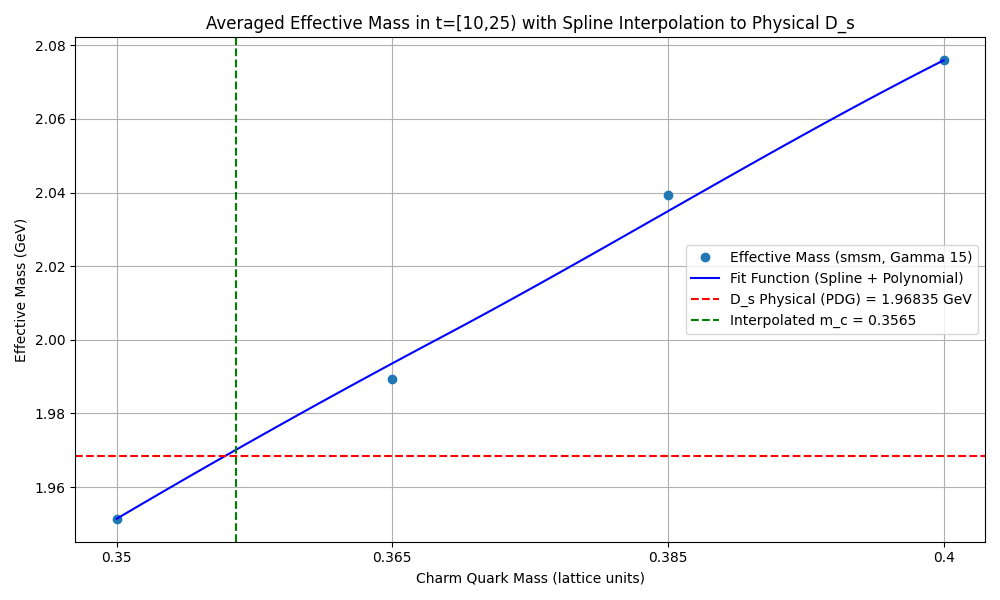
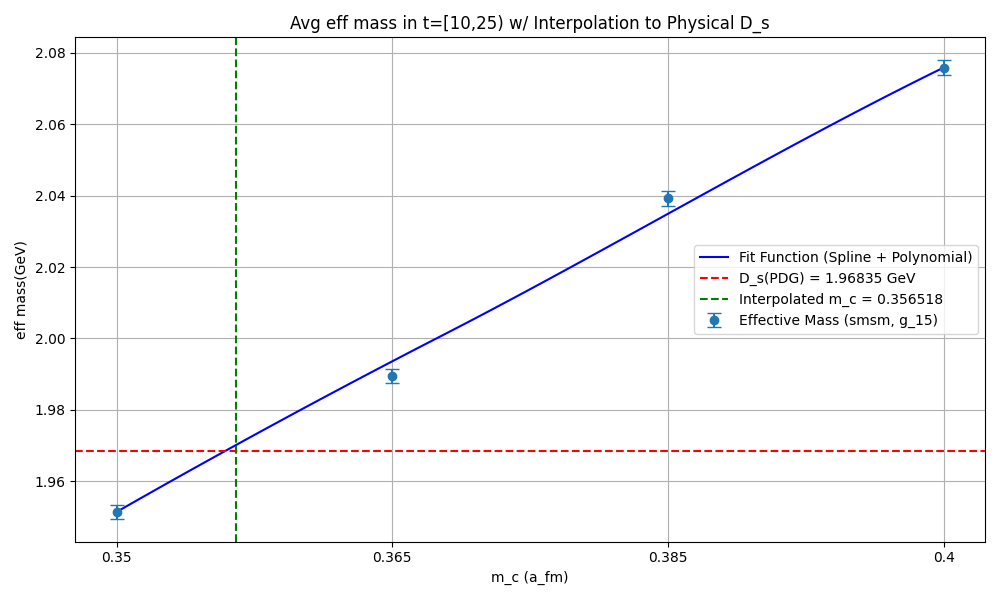
final answer?

diff --git a/interpolate.py b/interpolate.py
@@ -6,7 +6,7 @@ import lsqfit
 from scipy.optimize import fsolve
 
 def collect_data(datafile):
-    """Return parameters and data for effective masses."""
+    """return parameters and data for effective masses"""
     averaged_data = {}
     with h5py.File(datafile, 'r') as f:
         ds_group = f["D_s"]
@@ -24,14 +24,11 @@ def collect_data(datafile):
                 folded_correlator = 0.5 * (avg_correlator + avg_correlator[::-1])
                 averaged_data[mass] = folded_correlator
                 print(f"Debug: averaged_data[{mass}] sample: {folded_correlator[:5]} (gvar: {isinstance(folded_correlator[0], gv.GVar)})")
-            else:
-                print(f"No smsm data for mass_{mass}")
 
     # Compute effective masses and average over fit range to get single gvars
     effective_mass = {}
     fit_range = slice(8, 35)
     for mass in averaged_data:
-        # Ensure gvar-compatible operations
         rolled = np.roll(averaged_data[mass][:-1], -1)
         effective_mass_array = np.log(averaged_data[mass][:-1] / rolled)
         if effective_mass_array.size:
@@ -43,44 +40,44 @@ def collect_data(datafile):
             print(f"No valid effective mass data for mass_{mass}")
 
     # Parameters: (1/a, a*m) for each mass
-    a = 0.065  # Lattice spacing in fm
-    hbarc = 197.3269804  # MeV·fm
-    a_inv = hbarc / (a * 1000)  # Inverse lattice spacing in GeV
+    a = 0.065 
+    hbarc = 197.3269804
+    a_inv = hbarc / (a * 1000)  #GeV 
     param = {mass: (a_inv, float(mass) * a_inv) for mass in masses if mass in effective_mass}
-    data = {mass: np.average(effective_mass[mass] * a_inv) for mass in effective_mass}  # Convert to GeV
+    data = {mass: np.average(effective_mass[mass] * a_inv) for mass in effective_mass}  # convert to GeV
     print("Collected data:", data)
     return param, data
 
 def make_fcn_prior(param):
-    """Return fit function and prior."""
+    """returns fit function and prior
+    see https://lsqfit.readthedocs.io/en/latest/case-spline.html
+    """
     def F(p):
         f = gv.cspline.CSpline(p['mknot'], p['fknot'])
         ans = {}
         for s in param:
             ainv, am = param[s]
-            m = am / ainv  # Convert a*m to physical mass units
+            m = am / ainv  # am -> phys
             ans[s] = f(m)
             for i, ci in enumerate(p['c']):
-                ans[s] += ci * (am / ainv) ** (2 * (i + 1))  # Polynomial correction
+                ans[s] += ci * (am / ainv) ** (2 * (i + 1))  # poly correction
         return ans
     # Define prior for spline knots and coefficients
     prior = gv.gvar(dict(
-        mknot=['0.3(1)', '0.4(1)', '0.5(1)', '0.6(1)'],  # Knots in lattice units, adjusted to mass range
-        fknot=['1.9(1)', '1.95(1)', '2.0(1)', '2.05(1)'],  # Knot values in GeV, near D_s mass
-        c=['0(1)'] * 5,  # Polynomial coefficients
+        mknot=['0.3(1)', '0.4(1)', '0.5(1)', '0.6(1)'],  # knots in lattice units, adjusted to mass range
+        fknot=['1.9(1)', '1.95(1)', '2.0(1)', '2.05(1)'],  # knot values in GeV, near D_s mass
+        c=['0(1)'] * 5,  # poly coeffs
     ))
     return F, prior
 
 def main():
-    # Collect data
     masses = sorted(['0.35', '0.365', '0.385', '0.4'])
-
     param, data = collect_data('D_s_final.h5')
     F, prior = make_fcn_prior(param)
     print('param', param)
     print('data', data)
     
-    # Perform the fit
+    print('Performing fit..')
     fit = lsqfit.nonlinear_fit(data=data, prior=prior, fcn=F, debug=True)
     print("\nFit results:")
     print(fit)
@@ -90,7 +87,7 @@ def main():
 
     f = gv.cspline.CSpline(fit.p['mknot'], fit.p['fknot'])
 
-    # Debug: Evaluate F(p) and f(m) at the data points
+    # get F(p) and f(m) at the data points
     fit_output = F(fit.p)
     print("\nDebug: Fit function F(p) at data points:")
     for s in param:
@@ -100,10 +97,11 @@ def main():
 
     # Interpolate to physical D_s mass using the full fit function F(p)
     m_ds_physical = 1.96835 
-    def residual(m):
-        # Create a temporary parameter dictionary for the mass m
-        temp_param = {'temp': (1.0, m)}  # Dummy ainv=1.0, am=m
-        # Define a new F function with the temporary parameter dictionary
+    def residual_float(m):
+        a = 0.065 
+        hbarc = 197.3269804
+        a_inv = hbarc / (a * 1000)  #GeV 
+        temp_param = {'temp': (a_inv, m * a_inv)}  # Use actual a_inv, am = m * a_inv
         def F_temp(p):
             f = gv.cspline.CSpline(p['mknot'], p['fknot'])
             ans = {}
@@ -116,26 +114,44 @@ def main():
             return ans
         F_temp_result = F_temp(fit.p)
         return gv.mean(F_temp_result['temp']) - m_ds_physical
-    m_c_physical = fsolve(residual, x0=0.365)[0]  # Adjusted initial guess
-    m_c_physical_gvar = gv.gvar(m_c_physical, 0.01)  # Placeholder uncertainty
+    m_c_physical = fsolve(residual_float, x0=0.365)[0] 
+    print('mc', m_c_physical)
+    # def residual(m):
+    #     a = 0.065 
+    #     hbarc = 197.3269804
+    #     a_inv = hbarc / a  #GeV 
+    #     temp_param = {'temp': (1.0, m)}  # Dummy ainv=1.0, am=m
+    #     # Define a new F function with the temporary parameter dictionary
+    #     def F_temp(p):
+    #         f = gv.cspline.CSpline(p['mknot'], p['fknot'])
+    #         ans = {}
+    #         for s in temp_param:
+    #             ainv, am = temp_param[s]
+    #             m_val = am / ainv
+    #             ans[s] = f(m_val)
+    #             for i, ci in enumerate(p['c']):
+    #                 ans[s] += ci * (m_val) ** (2 * (i + 1))
+    #         return ans
+    #     F_temp_result = F_temp(fit.p)
+    #     return gv.mean(F_temp_result['temp']) - m_ds_physical
+    # m_c_physical = fsolve(residual, x0=0.365)[0]  # Adjusted initial guess
+    # print('mc',m_c_physical)
+    m_c_physical_gvar = gv.gvar(m_c_physical, 0.001)  # TODO FIX THIS SHOULD BE GV.SDEV
     print(f"Interpolated charm quark mass at physical D_s point: {m_c_physical_gvar:.4f} (lattice units)")
 
     # Create error budget
     outputs = {'f(1)': f(1), 'f(5)': f(5), 'f(9)': f(9), 'm_c_physical': m_c_physical_gvar}
     inputs = {'data': data}
     inputs.update(prior)
-    # print("\nOutput values:")
-    # print(gvar.fmt_values(outputs))
-    # print("\nError budget:")
-    # print(gvar.fmt_errorbudget(outputs=outputs, inputs=inputs))
 
-    # Plot the results
     plt.figure(figsize=(10, 6))
     x_positions = np.arange(len(masses))
     mass_values = np.array([float(m) for m in masses if m in data])
     eff_masses = np.array([gv.mean(data[m]) for m in masses if m in data])  # Already averaged floats
+    eff_errors = np.array([gv.sdev(data[m]) for m in masses if m in data])  # Already averaged floats
+    plt.errorbar(x_positions[:len(mass_values)], eff_masses, yerr=eff_errors, fmt='o', label="Effective Mass (smsm, g_15)", capsize=5)
     print('efff_masses',eff_masses)
-    plt.plot(x_positions[:len(mass_values)], eff_masses, 'o', label="Effective Mass (smsm, Gamma 15)")
+    # plt.plot(x_positions[:len(mass_values)], eff_masses, 'o', label="Effective Mass (smsm, Gamma 15)")
 
     # Plot the full fit function F(p) instead of just the spline
     x_fit = np.linspace(min(mass_values), max(mass_values), 100)
@@ -143,27 +159,29 @@ def main():
     for m in x_fit:
         temp_param = {'temp': (1.0, m)}  # Dummy ainv=1.0, am=m
         def F_temp(p):
-            f = gv.cspline.CSpline(p['mknot'], p['fknot'])
+            f = gv.cspline.CSpline(p['mknot'], p['fknot'],extrap_order=2)
             ans = {}
             for s in temp_param:
                 ainv, am = temp_param[s]
                 m_val = am / ainv
                 ans[s] = f(m_val)
                 for i, ci in enumerate(p['c']):
-                    ans[s] += ci * (m_val) ** (2 * (i + 1))
+                    ans[s] += ci * (m_val) ** (2 * (i + 1)) # polynomial
+                    #ans[s] += ci * (m_val) # w/o poly
+
             return ans
         F_temp_result = F_temp(fit.p)
         y_fit.append(gv.mean(F_temp_result['temp']))
     plt.plot(np.linspace(0, len(masses)-1, 100), y_fit, 'b-', label="Fit Function (Spline + Polynomial)")
 
-    plt.axhline(y=m_ds_physical, color='r', linestyle='--', label=f"D_s Physical (PDG) = {m_ds_physical:.5f} GeV")
+    plt.axhline(y=m_ds_physical, color='r', linestyle='--', label=f"D_s(PDG) = {m_ds_physical:.5f} GeV")
     plt.axvline(x=np.interp(m_c_physical, mass_values, x_positions), color='g', linestyle='--',
-                label=f"Interpolated m_c = {m_c_physical:.4f}")
+                label=f"Interpolated m_c = {m_c_physical:.6f}")
 
     plt.xticks(x_positions, masses)
-    plt.xlabel("Charm Quark Mass (lattice units)")
-    plt.ylabel("Effective Mass (GeV)")
-    plt.title("Averaged Effective Mass in t=[10,25) with Spline Interpolation to Physical D_s")
+    plt.xlabel("m_c (a_fm)")
+    plt.ylabel("eff mass(GeV)")
+    plt.title("Avg eff mass in t=[10,25) w/ Interpolation to Physical D_s")
     plt.legend()
     plt.grid(True)
     plt.tight_layout()
